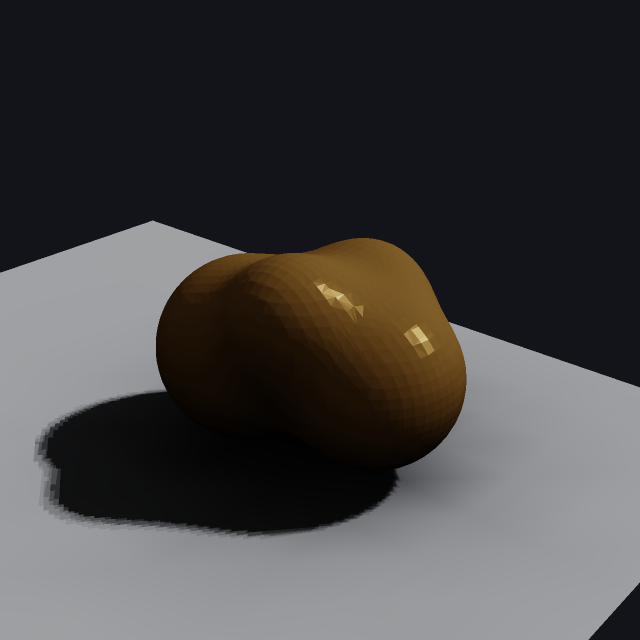
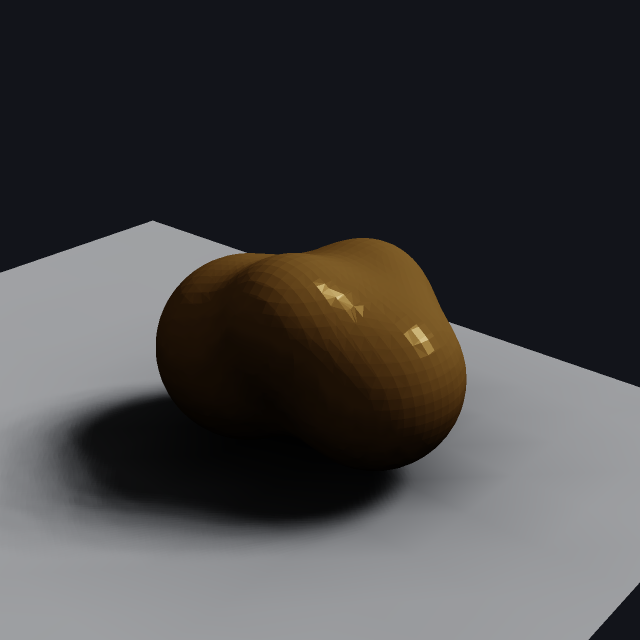
影を実際に柔らかくした: 「ソフトシャドウ」が実測ではハード影だった
記事 hero の影が不自然という指摘から、AO のまだら(前コミット)を直した後も
残っていた階段状のギザつきを追った。原因は 2 つあり、どちらも数で示せる。

## 1. 角半径が半影を作れない大きさだった

半影の幅 ≈ 遮蔽物の高さ × tan(角半径)。地面から 1 単位の物体に対し
penumbra=2.2 度では 1〜2 画素にしかならない。実測(320px):

  半影(0<x<1)の画素     283 / 102400
  影マップの値の種類       7 種類 = 0, 1/6, ... 1  (= samples+1 の階段そのもの)

つまり「ソフトシャドウ」と称していたものは、実測ではハード影 + 量子化ノイズ
だった。hero は 12 度 / 24 本へ。

## 2. shadow map を最近傍 1 点で二値判定していた

境目が texel に量子化されて階段になる。近傍 (2r+1)^2 texel の**判定を平均**
する PCF を追加(深度を平均するのではない —— 深度の平均は手前と奥をならして
存在しない面を作り、影の芯まで明るくなる。テストで両者を分けている)。

cast_shadow(pcf=0) が既定なので**既存の呼び出しはビット単位で不変**。
render_beauty は見た目が仕事なので shadow_pcf=1 を既定にした
(render_beauty の出力を固定している検査は無いことを確認済み)。

## 効果(地面の上だけで測った隣接画素の最大変化)

  修正前 (2.2 度,  6 本, pcf=0)   最大段 0.667  /  1/6 を超える段 123 箇所
  修正後 (12 度, 24 本, pcf=1)    最大段 0.176  /  1/6 を超える段   2 箇所

残っていた段差 1.0 は物体の輪郭 = 本物の不連続だった(face id で地面画素だけを
選んで測り直して確認)。

## テスト

tests/test_render_shadow_pcf.py を新設(7 本)。逆投影が平面へ厳密に戻ること、
その誤差がカメラ距離で増えないこと(規約ずれなら比例して増える)、pcf 既定が
不変であること、samples=1 でも階調が出る = 近傍混合しか原因になりえない構成、
影の芯が 0 のままであること(深度平均との判別)、角半径で半影が広がること。

フルスイート 9738 passed / 0 failed / 141 skipped。hero とサムネイル差し替え済み。

## 残(未着手)

- 物体表面のカクつきは render_mesh の法線が面ごとだから。face/bary を出せる
  ようにしたので滑らかな法線は実装可能になったが、「絵が実際のメッシュ分割を
  隠す」判断が要るので入れていない。
- tools/gen_article_assets.py が 2-D op 数の pin(731)と実際(865)の不一致で
  分類図の生成を拒否する。記事の「約1000」に対し実際は 1526。

Claude-Session: https://claude.ai/code/session_017NNFiEf6BurCoSMsQV4M6t

Changed region(s): [[0.0, 0.5938, 0.5938, 0.875], [0.5938, 0.75, 0.625, 0.7812]]

diff --git a/studio_assets/op_help/3d/render_beauty.html b/studio_assets/op_help/3d/render_beauty.html
@@ -1,7 +1,7 @@
 <!-- opdocs:generated — do not edit; source of truth is docs/ops/*.md (tools/opdocs.py html) -->
 <h2 style="color:#f5a524;margin:0 0 4px 0">render_beauty — 3D <code style="color:#22d3bf">render</code> op</h2>
 <p style="margin:2px 0 2px 12px">• <b>データ種</b>: <code style="color:#22d3bf">mesh</code> → <code style="color:#22d3bf">rgbimage</code></p>
-<p style="margin:2px 0 2px 12px">• <b>呼び出し</b>: <code style="color:#22d3bf">import render_beauty; render_beauty.render_beauty(V, F, *, pose=None, intrinsics=None, size: &#x27;int&#x27; = 512, ss: &#x27;int&#x27; = 2, light: &#x27;Sequence[float]&#x27; = (0.3, 0.4, 1.0), albedo: &#x27;Sequence[float]&#x27; = (0.8, 0.8, 0.85), material: &#x27;str&#x27; = &#x27;plastic&#x27;, matcap=None, ambient: &#x27;float&#x27; = 0.12, ao: &#x27;bool&#x27; = True, ground_shadow: &#x27;bool&#x27; = True, tonemap: &#x27;str&#x27; = &#x27;reinhard&#x27;, background: &#x27;Sequence[float]&#x27; = (0.1, 0.11, 0.13), exposure: &#x27;float&#x27; = 1.0, shininess: &#x27;Optional[float]&#x27; = None, ao_samples: &#x27;int&#x27; = 32, shadow_res: &#x27;int&#x27; = 512, penumbra: &#x27;float&#x27; = 2.5, shadow_samples: &#x27;int&#x27; = 12) -&gt; &#x27;np.ndarray&#x27;</code> (または <code style="color:#22d3bf">ops3d.get(&quot;render_beauty&quot;)</code>)</p>
+<p style="margin:2px 0 2px 12px">• <b>呼び出し</b>: <code style="color:#22d3bf">import render_beauty; render_beauty.render_beauty(V, F, *, pose=None, intrinsics=None, size: &#x27;int&#x27; = 512, ss: &#x27;int&#x27; = 2, light: &#x27;Sequence[float]&#x27; = (0.3, 0.4, 1.0), albedo: &#x27;Sequence[float]&#x27; = (0.8, 0.8, 0.85), material: &#x27;str&#x27; = &#x27;plastic&#x27;, matcap=None, ambient: &#x27;float&#x27; = 0.12, ao: &#x27;bool&#x27; = True, ground_shadow: &#x27;bool&#x27; = True, tonemap: &#x27;str&#x27; = &#x27;reinhard&#x27;, background: &#x27;Sequence[float]&#x27; = (0.1, 0.11, 0.13), exposure: &#x27;float&#x27; = 1.0, shininess: &#x27;Optional[float]&#x27; = None, ao_samples: &#x27;int&#x27; = 32, shadow_res: &#x27;int&#x27; = 512, penumbra: &#x27;float&#x27; = 2.5, shadow_samples: &#x27;int&#x27; = 12, shadow_pcf: &#x27;int&#x27; = 1) -&gt; &#x27;np.ndarray&#x27;</code> (または <code style="color:#22d3bf">ops3d.get(&quot;render_beauty&quot;)</code>)</p>
 <h3 style="color:#17b8a6;margin:10px 0 2px 0">使い方</h3>
 <p>メッシュを全品質層合成で「映える静止 3D」1 枚に描く → RGB `<code style="color:#22d3bf">(size, size, 3)</code>` float [0,1]。</p>
 <h3 style="color:#17b8a6;margin:10px 0 2px 0">参考(サンプルデータ・文献)</h3>

diff --git a/studio_assets/op_help/3d/cast_shadow.html b/studio_assets/op_help/3d/cast_shadow.html
@@ -1,7 +1,7 @@
 <!-- opdocs:generated — do not edit; source of truth is docs/ops/*.md (tools/opdocs.py html) -->
 <h2 style="color:#f5a524;margin:0 0 4px 0">cast_shadow — 3D <code style="color:#22d3bf">render</code> op</h2>
 <p style="margin:2px 0 2px 12px">• <b>データ種</b>: <code style="color:#22d3bf">mesh × vector</code> → <code style="color:#22d3bf">image2d</code></p>
-<p style="margin:2px 0 2px 12px">• <b>呼び出し</b>: <code style="color:#22d3bf">import render_shadow; render_shadow.cast_shadow(V, F, light, *, pose=None, intrinsics=None, width: &#x27;int&#x27; = 256, height: &#x27;int&#x27; = 256, directional: &#x27;bool&#x27; = True, penumbra: &#x27;float&#x27; = 0.0, samples: &#x27;int&#x27; = 16, shadow_res: &#x27;int&#x27; = 512, bias=None) -&gt; &#x27;np.ndarray&#x27;</code> (または <code style="color:#22d3bf">ops3d.get(&quot;cast_shadow&quot;)</code>)</p>
+<p style="margin:2px 0 2px 12px">• <b>呼び出し</b>: <code style="color:#22d3bf">import render_shadow; render_shadow.cast_shadow(V, F, light, *, pose=None, intrinsics=None, width: &#x27;int&#x27; = 256, height: &#x27;int&#x27; = 256, directional: &#x27;bool&#x27; = True, penumbra: &#x27;float&#x27; = 0.0, samples: &#x27;int&#x27; = 16, shadow_res: &#x27;int&#x27; = 512, bias=None, pcf: &#x27;int&#x27; = 0) -&gt; &#x27;np.ndarray&#x27;</code> (または <code style="color:#22d3bf">ops3d.get(&quot;cast_shadow&quot;)</code>)</p>
 <h3 style="color:#17b8a6;margin:10px 0 2px 0">使い方</h3>
 <p>メッシュのキャスト影 / ソフトシャドウを計算し、可視性マップ (H,W) ∈ [0,1] を返す。</p>
 <h3 style="color:#17b8a6;margin:10px 0 2px 0">参考(サンプルデータ・文献)</h3>

diff --git a/tests/test_render_shadow_pcf.py b/tests/test_render_shadow_pcf.py
@@ -1,0 +1,167 @@
+# Copyright (c) 2026 Kazufumi Furuse. Licensed under the Apache License, Version 2.0 (see LICENSE).
+"""接地影の逆投影規約と、shadow map の近傍混合(PCF)の検証。
+
+2026-09-02 に 2 つのことが分かった:
+
+1. ``unproject_to_world`` だけが画素中心に ``+0.5`` を足しており(``render3d`` と
+   ``camera`` は足さない、と両方の docstring が明記している)、逆投影した点が
+   真の平面から**深度に比例して**ずれていた。影はこの世界座標を光源カメラへ
+   投げ直すので、影の引き当ても同じだけずれていた。
+2. shadow map を最近傍 1 点で引いていたので、影の境目が texel に量子化されて
+   階段になっていた。「ソフトシャドウ」と称していたが、実測すると半影は
+   102400 画素中 283 画素・値の種類は ``samples+1`` の 7 段だけだった。
+"""
+import os
+import sys
+
+import numpy as np
+import pytest
+
+ROOT = os.path.dirname(os.path.dirname(os.path.abspath(__file__)))
+sys.path.insert(0, ROOT)
+
+import render3d  # noqa: E402
+import render_shadow  # noqa: E402
+
+
+def _plane(n=8, half=4.0, z=0.0):
+    xs = np.linspace(-half, half, n + 1)
+    X, Y = np.meshgrid(xs, xs, indexing="ij")
+    V = np.stack([X.ravel(), Y.ravel(), np.full(X.size, z)], axis=1)
+    F = []
+    for i in range(n):
+        for j in range(n):
+            a = i * (n + 1) + j
+            F.append([a, a + 1, a + n + 2])
+            F.append([a, a + n + 2, a + n + 1])
+    return V, np.asarray(F, np.int64)
+
+
+def _scene():
+    """地面 + その上に浮かぶ板。板が地面に影を落とす。"""
+    Vg, Fg = _plane(8, 4.0, 0.0)
+    Vb, Fb = _plane(2, 1.0, 1.5)
+    V = np.vstack([Vg, Vb])
+    F = np.vstack([Fg, Fb + len(Vg)])
+    return V, F, len(Fg)
+
+
+# --------------------------------------------------------------------------- #
+# 1. 逆投影が画素中心の約束を守る                                              #
+# --------------------------------------------------------------------------- #
+def test_unprojected_plane_pixels_land_exactly_on_the_plane():
+    """平らな地面を写して逆投影すると、**厳密に**その平面へ戻る。
+
+    ``+0.5`` を足していた頃は深度に比例してずれ、96x96・画角 40 度・距離 ~5 の
+    実測で真の平面から 1.32e-2 外れていた(許容は texel 由来の 3.5e-4)。
+    半画素の話に見えて、実際には**深度が掛かるので絶対値で効く**。
+    """
+    Vg, Fg = _plane(6, 3.0, 0.0)
+    pose = render3d.look_at([3.0, -3.6, 2.2], [0.0, 0.0, 0.0], up=(0.0, 0.0, 1.0))
+    K = render3d.intrinsics_from_fov(40.0, 96, 96)
+    view = render3d.render_mesh(Vg, Fg, pose=pose, intrinsics=K, width=96, height=96)
+    Pw = render_shadow.unproject_to_world(view["depth"], pose, K)
+    m = (view["silhouette"] > 0) & np.isfinite(Pw[..., 2])
+    assert m.sum() > 500, "地面がほとんど写っていない(検査にならない)"
+    err = float(np.abs(Pw[..., 2][m]).max())
+    assert err < 1e-9, (
+        f"逆投影が平面から {err:.3e} ずれている — 画素中心の規約が "
+        "render3d / camera と食い違っている(+0.5 を足していないか)")
+
+
+def test_unprojection_error_does_not_grow_with_depth():
+    """カメラを 2 倍遠ざけても誤差が増えない(規約ずれなら比例して増える)。"""
+    Vg, Fg = _plane(6, 3.0, 0.0)
+    K = render3d.intrinsics_from_fov(40.0, 96, 96)
+    errs = []
+    for scale in (1.0, 2.0):
+        eye = [3.0 * scale, -3.6 * scale, 2.2 * scale]
+        pose = render3d.look_at(eye, [0.0, 0.0, 0.0], up=(0.0, 0.0, 1.0))
+        view = render3d.render_mesh(Vg, Fg, pose=pose, intrinsics=K, width=96, height=96)
+        Pw = render_shadow.unproject_to_world(view["depth"], pose, K)
+        m = (view["silhouette"] > 0) & np.isfinite(Pw[..., 2])
+        errs.append(float(np.abs(Pw[..., 2][m]).max()))
+    assert max(errs) < 1e-9, f"深度で誤差が増えている: {errs}"
+
+
+# --------------------------------------------------------------------------- #
+# 2. PCF                                                                       #
+# --------------------------------------------------------------------------- #
+def test_pcf_default_is_off_and_changes_nothing():
+    """既定 ``pcf=0`` は従来の最近傍 1 点と**ビット単位で同じ**。
+
+    既存の呼び出しの見た目を黙って変えないこと自体が要件。
+    """
+    V, F, _ = _scene()
+    kw = dict(pose=render3d.look_at([4.0, -5.0, 4.0], [0.0, 0.0, 0.5], up=(0, 0, 1)),
+              intrinsics=render3d.intrinsics_from_fov(40.0, 96, 96),
+              width=96, height=96, directional=True, penumbra=0.0, samples=1,
+              shadow_res=256)
+    a = render_shadow.cast_shadow(V, F, np.array([0.4, 0.5, 0.8]), **kw)
+    b = render_shadow.cast_shadow(V, F, np.array([0.4, 0.5, 0.8]), pcf=0, **kw)
+    assert np.array_equal(a, b)
+
+
+def test_pcf_adds_gradation_between_lit_and_shadow():
+    """PCF を入れると、影の値が 0/1 の 2 値でなく階調を持つ。
+
+    ``samples=1`` にしてあるので、階調が出るとしたら**近傍混合しかない**
+    (半影サンプルの平均ではない)ことが構成上保証される。
+    """
+    V, F, _ = _scene()
+    kw = dict(pose=render3d.look_at([4.0, -5.0, 4.0], [0.0, 0.0, 0.5], up=(0, 0, 1)),
+              intrinsics=render3d.intrinsics_from_fov(40.0, 128, 128),
+              width=128, height=128, directional=True, penumbra=0.0, samples=1,
+              shadow_res=256)
+    hard = render_shadow.cast_shadow(V, F, np.array([0.4, 0.5, 0.8]), pcf=0, **kw)
+    soft = render_shadow.cast_shadow(V, F, np.array([0.4, 0.5, 0.8]), pcf=2, **kw)
+    n_hard = int(((hard > 1e-9) & (hard < 1 - 1e-9)).sum())
+    n_soft = int(((soft > 1e-9) & (soft < 1 - 1e-9)).sum())
+    assert n_hard == 0, f"samples=1 / pcf=0 は 2 値のはず(中間 {n_hard} 画素)"
+    assert n_soft > 20, f"PCF を入れても階調が出ていない(中間 {n_soft} 画素)"
+
+
+def test_pcf_stays_within_zero_one_and_keeps_the_core_dark():
+    """階調は端を壊さない: 値域 [0,1]、影の芯は 0 のまま、外は 1 のまま。
+
+    深度を平均する実装にすると芯まで明るくなる(手前と奥をならして存在しない
+    面を作るため)。ここが両者を分ける検査。
+    """
+    V, F, _ = _scene()
+    kw = dict(pose=render3d.look_at([4.0, -5.0, 4.0], [0.0, 0.0, 0.5], up=(0, 0, 1)),
+              intrinsics=render3d.intrinsics_from_fov(40.0, 128, 128),
+              width=128, height=128, directional=True, penumbra=0.0, samples=1,
+              shadow_res=256)
+    soft = render_shadow.cast_shadow(V, F, np.array([0.4, 0.5, 0.8]), pcf=2, **kw)
+    assert float(soft.min()) >= 0.0 and float(soft.max()) <= 1.0
+    assert float(soft.min()) == 0.0, "影の芯が完全な影でなくなっている"
+    assert int((soft >= 1.0).sum()) > 1000, "照らされている領域が痩せている"
+
+
+def test_pcf_rejects_a_silly_radius():
+    """fail-closed: 負や大きすぎる半径は黙って丸めず拒否する。"""
+    V, F, _ = _scene()
+    kw = dict(width=48, height=48, shadow_res=128)
+    with pytest.raises(ValueError, match="pcf"):
+        render_shadow.cast_shadow(V, F, np.array([0.4, 0.5, 0.8]), pcf=-1, **kw)
+    with pytest.raises(ValueError, match="pcf"):
+        render_shadow.cast_shadow(V, F, np.array([0.4, 0.5, 0.8]), pcf=99, **kw)
+
+
+def test_penumbra_width_follows_the_light_angular_radius():
+    """半影の広さが角半径とともに広がる(記事の「ソフトシャドウ」の根拠)。
+
+    既定の 2.5 度が「柔らかい」と言えるほどではないことを、数で示しておく。
+    """
+    V, F, n_ground = _scene()
+    pose = render3d.look_at([4.0, -5.0, 4.0], [0.0, 0.0, 0.5], up=(0, 0, 1))
+    K = render3d.intrinsics_from_fov(40.0, 128, 128)
+    widths = []
+    for pen in (2.5, 12.0):
+        sm = render_shadow.cast_shadow(
+            V, F, np.array([0.4, 0.5, 0.8]), pose=pose, intrinsics=K,
+            width=128, height=128, directional=True, penumbra=pen, samples=16,
+            shadow_res=256, pcf=1)
+        widths.append(int(((sm > 0.02) & (sm < 0.98)).sum()))
+    assert widths[1] > 2 * widths[0], (
+        f"角半径を 4.8 倍にしても半影が広がっていない: {widths}")

diff --git a/examples_3d/render_beauty.py b/examples_3d/render_beauty.py
@@ -387,7 +387,11 @@ def main() -> int:
         albedo=(0.90, 0.62, 0.30), light=(0.45, 0.55, 0.75), ambient=0.10,
         ao=True, ground_shadow=True, tonemap="aces", exposure=1.25,
         background=(0.07, 0.08, 0.10), ao_samples=48, shadow_res=512,
-        penumbra=2.2, shadow_samples=6)
+        # 半影の幅 ≈ 遮蔽物の高さ × tan(角半径)。2.2 度では 1〜2 画素にしかならず、
+        # 実測でも半影は 283/102400 画素・値の種類は 7 段だけ = 事実上ハード影だった。
+        # 12 度まで上げ、段が見えないようサンプルを増やし、shadow map の参照も
+        # 近傍混合(pcf)にする。地面の上の隣接画素の最大変化 0.667 → 0.176。
+        penumbra=12.0, shadow_samples=24, shadow_pcf=1)
     hero_path = _REPO_ROOT / "examples_3d" / "_gallery" / "render_beauty_hero.png"
     saved = save_png(hero, hero_path)
     print(f"[hero] {hero.shape} 値域[{hero.min():.3f},{hero.max():.3f}] "

diff --git a/docs/SESSION_SUMMARY.md b/docs/SESSION_SUMMARY.md
@@ -3,51 +3,53 @@
 > 自動生成: `libexec/raptor-auto-summary` (Stop hook)
 > 次回 ccr 起動時に CLAUDE.md SESSION START で自動的に読み取られる。
 
-- **最終更新**: 2026-09-02 13:53:44
+- **最終更新**: 2026-09-02 14:11:22
 - **プロジェクト**: `C:/dev/projects/imgevolve`
 - **ブランチ**: `master`
 
 ## 直近の git log
 
 ```
+d8f78cda3 auto: render_beauty.py 編集前 (2026-09-02 14:09)
+879ab985b auto: render_beauty.py 編集前 (2026-09-02 14:08)
+c49bef9ee auto: render_beauty.py 編集前 (2026-09-02 14:08)
+0354eceac auto: render_beauty.py 編集前 (2026-09-02 14:08)
+0c1d149e5 auto: render_shadow.py 編集前 (2026-09-02 14:07)
+ad8204345 auto: render_shadow.py 編集前 (2026-09-02 14:07)
+a2b2c628b auto: render_shadow.py 編集前 (2026-09-02 14:07)
+cbba8fd4c 未実行ゼロ: 狙い撃ち網羅で 511→706/707、潜んでいた実バグ 7 件を摘出
 99a6e5514 auto: test_ops3d_ledger.py 編集前 (2026-09-02 13:50)
 d257af337 auto: ops3d.py 編集前 (2026-09-02 13:34)
-fb1751258 auto: chain_fuzz.py 編集前 (2026-09-02 13:33)
-e8f2b48ba auto: chain_fuzz.py 編集前 (2026-09-02 13:32)
-9a5a192de auto: chain_fuzz.py 編集前 (2026-09-02 13:32)
-0fd5762ce auto: chain_fuzz.py 編集前 (2026-09-02 13:32)
-6458137b9 auto: chain_fuzz.py 編集前 (2026-09-02 13:32)
-4a1287111 auto: chain_fuzz.py 編集前 (2026-09-02 13:24)
-5b1d2cbe7 auto: twoview.py 編集前 (2026-09-02 13:23)
-3de4fbe30 auto: twoview.py 編集前 (2026-09-02 13:23)
 ```
 
 ## 現在の git status
 
 ```
-M docs/ops/3d/occupancy/query_distance.md
- M studio_assets/op_help/3d/query_distance.html
- M tests/test_ops3d_ledger.py
+M docs/articles/assets/render_beauty_hero.png
+ M docs/articles/assets/thumbs/render_beauty_hero_720.jpg
+ M examples_3d/_gallery/render_beauty_hero.png
+ M examples_3d/render_beauty.py
+?? tests/test_render_shadow_pcf.py
 ```
 
 ## 直近 2 時間に変更されたファイル
 
 ```
-13:52 .pytest_cache/v/cache/lastfailed
-13:52 .pytest_cache/v/cache/nodeids
-13:50 studio_assets/op_help/guide_coherence_scanning.html
-13:50 studio_assets/op_help/guide_acoustic_condition_monitoring.html
-13:50 studio_assets/op_help/guide_quaternion_monogenic.html
-13:50 studio_assets/op_help/guide_fmcw_range_doppler.html
-13:50 studio_assets/op_help/guide_specular_photometric.html
-13:50 studio_assets/op_help/guide_motion_magnification.html
-13:50 studio_assets/op_help/guide_photon_timeresolved.html
-13:50 studio_assets/op_help/guide_lightfield_depth.html
-13:50 studio_assets/op_help/guide_optics_imaging.html
-13:50 studio_assets/op_help/guide_math_metrology.html
-13:50 studio_assets/op_help/guide_handpose.html
-13:50 studio_assets/op_help/guide_gallery2d_texture_freq.html
-13:50 studio_assets/op_help/guide_gallery2d_smoothing_rank.html
+14:10 docs/articles/assets/thumbs/op_sampler_3d_720.jpg
+14:10 docs/articles/assets/thumbs/op_sampler_2d_720.jpg
+14:10 docs/articles/assets/thumbs/halcon_coverage_chart_720.jpg
+14:10 docs/articles/assets/thumbs/op_taxonomy_720.jpg
+14:10 docs/articles/assets/thumbs/itokawa_montage_720.jpg
+14:10 docs/articles/assets/thumbs/render_beauty_hero_720.jpg
+14:10 docs/articles/assets/thumbs/vision_ops_montage_720.jpg
+14:10 docs/articles/assets/thumbs/physical_ai_montage_720.jpg
+14:10 docs/articles/assets/showcase_turntable_itokawa.gif
+14:10 docs/articles/assets/render_beauty_hero.png
+14:10 docs/articles/assets/hand_hero.png
+14:10 docs/articles/assets/gear_hero.png
+14:10 examples_3d/_gallery/render_beauty_hero.png
+14:10 .pytest_cache/v/cache/nodeids
+14:09 tests/test_render_shadow_pcf.py
 ```
 
 ---

diff --git a/docs/ops/3d/render/render_beauty.md b/docs/ops/3d/render/render_beauty.md
@@ -13,7 +13,7 @@ version: 0.1.0  # fullseye lib version this note was generated for
 # render_beauty — 3D `render` op
 
 - **データ種**: `mesh` → `rgbimage`
-- **呼び出し**: `import render_beauty; render_beauty.render_beauty(V, F, *, pose=None, intrinsics=None, size: 'int' = 512, ss: 'int' = 2, light: 'Sequence[float]' = (0.3, 0.4, 1.0), albedo: 'Sequence[float]' = (0.8, 0.8, 0.85), material: 'str' = 'plastic', matcap=None, ambient: 'float' = 0.12, ao: 'bool' = True, ground_shadow: 'bool' = True, tonemap: 'str' = 'reinhard', background: 'Sequence[float]' = (0.1, 0.11, 0.13), exposure: 'float' = 1.0, shininess: 'Optional[float]' = None, ao_samples: 'int' = 32, shadow_res: 'int' = 512, penumbra: 'float' = 2.5, shadow_samples: 'int' = 12) -> 'np.ndarray'` (または `ops3d.get("render_beauty")`)
+- **呼び出し**: `import render_beauty; render_beauty.render_beauty(V, F, *, pose=None, intrinsics=None, size: 'int' = 512, ss: 'int' = 2, light: 'Sequence[float]' = (0.3, 0.4, 1.0), albedo: 'Sequence[float]' = (0.8, 0.8, 0.85), material: 'str' = 'plastic', matcap=None, ambient: 'float' = 0.12, ao: 'bool' = True, ground_shadow: 'bool' = True, tonemap: 'str' = 'reinhard', background: 'Sequence[float]' = (0.1, 0.11, 0.13), exposure: 'float' = 1.0, shininess: 'Optional[float]' = None, ao_samples: 'int' = 32, shadow_res: 'int' = 512, penumbra: 'float' = 2.5, shadow_samples: 'int' = 12, shadow_pcf: 'int' = 1) -> 'np.ndarray'` (または `ops3d.get("render_beauty")`)
 
 ## 使い方
 

diff --git a/docs/ops/3d/render/cast_shadow.md b/docs/ops/3d/render/cast_shadow.md
@@ -13,7 +13,7 @@ version: 0.1.0  # fullseye lib version this note was generated for
 # cast_shadow — 3D `render` op
 
 - **データ種**: `mesh × vector` → `image2d`
-- **呼び出し**: `import render_shadow; render_shadow.cast_shadow(V, F, light, *, pose=None, intrinsics=None, width: 'int' = 256, height: 'int' = 256, directional: 'bool' = True, penumbra: 'float' = 0.0, samples: 'int' = 16, shadow_res: 'int' = 512, bias=None) -> 'np.ndarray'` (または `ops3d.get("cast_shadow")`)
+- **呼び出し**: `import render_shadow; render_shadow.cast_shadow(V, F, light, *, pose=None, intrinsics=None, width: 'int' = 256, height: 'int' = 256, directional: 'bool' = True, penumbra: 'float' = 0.0, samples: 'int' = 16, shadow_res: 'int' = 512, bias=None, pcf: 'int' = 0) -> 'np.ndarray'` (または `ops3d.get("cast_shadow")`)
 
 ## 使い方
 
